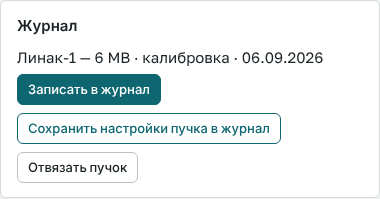
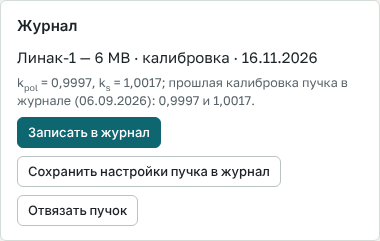
Инструкция пользователя: снимки и текст по версии 0.64.1
Все снимки пересняты на вымышленном журнале (новые: kV-сертификат камеры,
прошлый TPR серым, карта проверок в пластинах). Текст: ярлыки «Оборудования»,
сотрудники отделения, «Применение» и два свидетельства камеры, «Новый
сертификат…» и история, перенос записи на другую дату, переключатель протокола
только на страницах расчёта, «Литература», листы kV-рентгена 0.57–0.62.

Changed region(s): [[0.0, 0.2111, 0.9842, 0.995], [0.0289, 0.0603, 0.2026, 0.1809], [0.7237, 0.5729, 0.7526, 0.603]]

diff --git a/docs/instrukciya.md b/docs/instrukciya.md
@@ -2,7 +2,7 @@
 
 Пошаговое описание ежедневной работы с калькулятором «Клиническая дозиметрия»: как один раз завести оборудование отделения, как измерить и записать калибровку или проверку выхода пучка и как смотреть тренды и контрольные карты. Формулы, коэффициенты и ссылки на разделы протоколов — в технических описаниях: [photons.md](photons.md), [electrons.md](electrons.md), [cobalt.md](cobalt.md), [kv.md](kv.md), [journal.md](journal.md).
 
-Снимки экрана сделаны в версии 0.49.2 (снимки «Начала», сеанса, вкладок ⁶⁰Co и kV — в 0.63.0, частых вопросов — в 0.50.0) на **вымышленных данных**: «Условный онкодиспансер», ускоритель «Линак-1» с пучками 6 МВ, 10 МВ и 9 МэВ, камеры PTW 30013 № 000111 и PTW 34001 Roos № 000222, электрометр PTW № 000333. Числа на снимках не относятся ни к одному реальному аппарату. Формат даты в полях ввода зависит от настроек браузера (на снимках — ММ/ДД/ГГГГ).
+Снимки экрана сделаны в версии 0.64.1 на **вымышленных данных**: «Условный онкодиспансер», сотрудники Иванова А. А. и Петров П. П., ускоритель «Линак-1» с пучками 6 МВ, 10 МВ и 9 МэВ, рентгенотерапевтический аппарат «РТА-1», камеры PTW 30013 № 000111 и PTW 34001 Roos № 000222, электрометр PTW UNIDOS webline № 000333. В журнале — калибровка 06.09.2026, проверки выхода каждые три дня до 02.11.2026 (09.10.2026 все пучки вместе выше на 2 %) и проверки 6 МВ в пластинах 09–13.11.2026. Числа на снимках не относятся ни к одному реальному аппарату. Формат даты в полях ввода зависит от настроек браузера (на снимках — ММ/ДД/ГГГГ).
 
 Содержание:
 
@@ -24,23 +24,27 @@
 2. **Дозиметрия** — при каждом измерении: выбрать пучок журнала, ввести условия и показания, проверить результат и нажать **«Записать в журнал»**.
 3. **Журнал и тренды** — когда нужно посмотреть историю: отклонение выхода по датам, контрольные карты, протоколы записей, выгрузка в Excel.
 
-В шапке страницы — разделы, переключатель языка (RU/EN) и протокола. **Основной протокол — TRS-398 Rev.1**; TG-51 включается только для справочного сравнения и помечен «справочно».
+В шапке страницы — разделы, переключатель светлой и тёмной темы и языка (RU/EN). **Основной протокол — TRS-398 Rev.1.** На страницах, где выбор протокола меняет расчёт (вкладки «⁶⁰Co», «МВ фотоны» и «Электроны» в воде, «Камера и пучок», «Неопределённость»), в шапке появляется ещё переключатель протокола: TG-51 включается только для справочного сравнения и помечен «справочно». На остальных страницах (Начало, Оборудование, kV-рентген, Журнал и тренды) переключателя нет: там всё по TRS-398 Rev.1.
 
-На странице **«Начало»** видно состояние журнала: сколько аппаратов и пучков, когда была последняя запись, есть ли несохранённые изменения.
+На странице **«Начало»** видно состояние журнала: имя файла, сколько аппаратов и пучков, когда была последняя запись, есть ли несохранённые изменения.
 
 ![Страница «Начало» с открытым журналом](img/instrukciya/02-nachalo-s-zhurnalom.png)
+
+Внизу каждой страницы — ссылка на страницу **«Литература»**: все источники калькулятора (протоколы, аддендумы, статьи) карточками с обложками, сгруппированные по темам.
 
 ---
 
 ## 2. Оборудование
 
-Раздел **«Оборудование»** заполняют один раз и затем правят только при изменениях: новая камера, новое свидетельство о калибровке, новый пучок. Отсюда данные подставляются во вкладки дозиметрии, поэтому заводской номер, N<sub>D,w</sub> и k<sub>elec</sub> не нужно вводить при каждом измерении.
+Раздел **«Оборудование»** заполняют один раз и затем правят только при изменениях: новая камера, новое свидетельство о калибровке, новый пучок, новый сотрудник. Отсюда данные подставляются во вкладки дозиметрии, поэтому заводской номер, N<sub>D,w</sub> и k<sub>elec</sub> не нужно вводить при каждом измерении.
+
+В разделах 2–4 (аппараты, электрометры, камеры) **каждая запись — свой лист**: над карточкой ряд ярлыков с названиями, щелчок по ярлыку открывает карточку. Кнопки «+ Добавить…» — всегда над ярлыками; новая запись сразу открывается своим листом. Точка на ярлыке показывает, заполнена ли карточка: зелёная — всё нужное для расчёта есть; чего не хватает — сказано в заголовке карточки и в «Замечаниях» справа.
 
 Внизу каждой карточки (аппарат, режим рентгенотерапевтического аппарата, электрометр, камера) — поле **«Примечания»** во всю ширину карточки: текст переносится по строкам, поле растёт по мере ввода, Enter начинает новую строку. Длинный комментарий виден целиком.
 
 ### 2.1. Файл журнала
 
-Справа на странице — сводка оборудования, замечания и панель **«Файл журнала»**.
+Справа на странице — сводка оборудования, замечания (в том числе о сроках калибровки) и панель **«Файл журнала»**.
 
 ![Сводка, замечания и панель «Файл журнала»](img/instrukciya/14-oborudovanie-svodka.png)
 
@@ -53,13 +57,13 @@
 
 ### 2.2. Учреждение
 
-Раздел 1 — учреждение и подразделение. Они попадают в протоколы записей и во вкладки дозиметрии при выборе пучка журнала.
+Раздел 1 — учреждение, подразделение и **сотрудники** отделения. Учреждение и подразделение попадают в протоколы записей и во вкладки дозиметрии при выборе пучка журнала. Сотрудники («+ Добавить сотрудника», лишнего удаляют крестиком) появляются в выпадающем списке поля «Сотрудник, выполняющий измерения» всех вкладок дозиметрии и листа «В пластинах» с пометкой «отделение». Само поле ничего не подставляет: сотрудника выбирают из списка или вписывают другого.
 
 ![Раздел 1 «Учреждение»](img/instrukciya/10-oborudovanie-uchrezhdenie.png)
 
 ### 2.3. Аппараты и пучки
 
-Раздел 2. Аппарат добавляют кнопкой нужного типа: **«Добавить ускоритель»**, **«Добавить аппарат ⁶⁰Co»** или **«Добавить рентгенотерапевтический аппарат»**.
+Раздел 2. Аппарат добавляют кнопкой нужного типа: **«+ Добавить ускоритель»**, **«+ Добавить аппарат ⁶⁰Co»** или **«+ Добавить рентгенотерапевтический аппарат»**. Тип задаётся только кнопкой и потом не меняется (он виден на ярлыке и в заголовке карточки).
 
 У ускорителя:
 
@@ -69,11 +73,18 @@
 4. Отметка **«используется в измерениях»**: снятая убирает пучок из списков вкладок, но его история в журнале остаётся.
 5. **«Настройки пучка — во вкладке…»** открывает пучок на вкладке дозиметрии: там задают V₁, V₂, полярность, МЕ, d<sub>max</sub> и PDD(10) (или TMR), номинальный выход и допуск. Правки возвращаются кнопкой «Сохранить в журнал» над рабочим листом.
 
-![Карточка ускорителя с пучками фотонов и электронов](img/instrukciya/11-oborudovanie-apparat.png)
+![Раздел 2: ярлыки аппаратов и карточка ускорителя с пучками фотонов и электронов](img/instrukciya/11-oborudovanie-apparat.png)
 
-У **рентгенотерапевтического аппарата** вместо пучков — список аппликаторов (обозначение, форма, размер, РИП) и режимы: напряжение, ток трубки, фильтр, диапазон энергий, СПО (номинальный или измеренный), камера и электрометр режима, аппликаторы режима и референсный аппликатор. Пока чего-то не хватает для расчёта, под режимом перечислены замечания. Режимы удобнее заводить из вкладки «kV-рентген» кнопкой «Сохранить аппарат в «Оборудование»» (см. [3.7](#37-kv-рентген)).
+У **рентгенотерапевтического аппарата** вместо пучков:
 
-![Карточка рентгенотерапевтического аппарата: аппликаторы и режим](img/instrukciya/16-oborudovanie-kv-apparat.png)
+- **Аппликаторы** — таблица: обозначение, форма, размер, РИП; эквивалентный диаметр считается сам.
+- **Режимы** — каждый режим тоже свой ярлык внутри карточки аппарата («Режим 1 · 200 кВ / 10 мА / 0,5 мм Cu + 1 мм Al»): напряжение, ток трубки, фильтр, диапазон энергий, СПО (номинальный — из паспорта или приёмки, или измеренный — с датой измерения), аппликаторы режима и стандартный аппликатор. Пока чего-то не хватает для расчёта, под режимом перечислены замечания.
+- **Камеры режимов** — таблица внизу карточки: камера каждого режима, её электрометр (электрометр при калибровке kV-сертификата) и есть ли у камеры kV-сертификат.
+- Набор пластин для измерения СПО, если его вводили на листе «СПО и k<sub>Q</sub>» вкладки «kV-рентген».
+
+«Оборудование» — источник постоянного для вкладки «kV-рентген»: при выборе аппарата во вкладке режимы подставляются с камерой, её kV-сертификатом, электрометром и аппликаторами и там только показываются. Аппарат можно завести и из вкладки кнопкой «Сохранить аппарат в «Оборудование»» (см. [3.7](#37-kv-рентген)).
+
+![Карточка рентгенотерапевтического аппарата: аппликаторы, режимы ярлыками, камеры режимов](img/instrukciya/16-oborudovanie-kv-apparat.png)
 
 ### 2.4. Электрометры
 
@@ -83,16 +94,21 @@
 
 ### 2.5. Камеры
 
-Раздел 4. Одна запись камеры служит всем вкладкам — фотонам, электронам, ⁶⁰Co и kV: это та же физическая камера с тем же свидетельством.
+Раздел 4. Одна запись камеры служит всем пучкам, для которых она отмечена: это та же физическая камера. Но свидетельств у неё может быть два — для МВ и ⁶⁰Co и для kV-рентгена, — и они хранятся отдельно.
 
-1. Производитель и модель из базы. Под моделью показаны радиус и длина полости из базы (TRS-398 Rev.1, табл. 4).
-2. Заводской №, способ калибровки (N<sub>D,w</sub> в ⁶⁰Co или перекрёстная калибровка), N<sub>D,w</sub> с единицами, k<sub>лаб</sub>, T₀ и P₀ из свидетельства.
-3. **Свидетельство о калибровке** — лаборатория, № свидетельства, дата калибровки, срок «действует до», с каким электрометром, при каком напряжении и полярности калибровали. Свидетельство попадает в протокол записи; по нему вкладка дозиметрии предупредит, если выбран другой электрометр с k<sub>elec</sub> = 1 или рабочее напряжение не то, что при калибровке.
-4. kV-сертификат (N<sub>D,w</sub> или N<sub>K</sub> по качествам) вводится во вкладке «kV-рентген» и сохраняется в эту же запись камеры.
+1. Производитель и модель из базы. Под моделью показаны радиус и длина полости из базы (TRS-398 Rev.1, табл. 4). Поля свидетельства появляются после выбора модели.
+2. Заводской № и **«Применение»**: флажки «МВ фотоны и ⁶⁰Co», «электроны», «kV-рентген» (только те, для которых модель годится). Ниже — поля только для отмеченного, и списки камер во вкладках дозиметрии показывают камеру только для отмеченных видов пучков. Флажок нельзя снять, если камерой уже мерили этим видом пучков или она выбрана в режиме рентгенотерапевтического аппарата.
+3. Свидетельства — на двух ярлыках внутри карточки:
+   - **«Ускорители и ⁶⁰Co»** — способ калибровки (N<sub>D,w</sub> в ⁶⁰Co или перекрёстная), N<sub>D,w</sub> с единицами, k<sub>лаб</sub>, T₀ и P₀, лаборатория, № свидетельства, дата калибровки, срок «действует до», с каким электрометром, при каком напряжении и полярности калибровали. Свидетельство попадает в протокол записи; по нему вкладка дозиметрии предупредит, если выбран другой электрометр с k<sub>elec</sub> = 1 или рабочее напряжение не то, что при калибровке.
+   - **«kV-рентген»** — kV-сертификат: свои лаборатория, №, даты, электрометр, N<sub>D,w</sub> или N<sub>K</sub>, таблица качеств (кВ, СПО, металл, k<sub>Q</sub> или N), условия лаборатории, свои T₀ и P₀.
 
-![Карточка камеры PTW 30013 со свидетельством о калибровке](img/instrukciya/13-oborudovanie-kamera.png)
+![Карточка камеры PTW 30013: свидетельство для ускорителей и ⁶⁰Co](img/instrukciya/13-oborudovanie-kamera.png)
 
-В заголовке карточки — срок калибровки или отметка «не заполнено: …». За 30 дней до срока появляется напоминание «срок подходит», после — «срок калибровки прошёл»; эти напоминания видны и в «Дозиметрии», и в «Журнале и трендах».
+![Та же камера, ярлык «kV-рентген»: kV-сертификат](img/instrukciya/15-oborudovanie-kamera-kv.png)
+
+**Камеру перекалибровали.** Нажмите **«Новый сертификат…»** на нужном ярлыке: действующее свидетельство уйдёт в «Историю сертификатов», поля освободятся под новое. Записи журнала не пересчитываются: у каждой записи свои № и коэффициенты свидетельства. Вкладки дозиметрии берут свидетельство, действовавшее **на дату измерения**: если внести измерение прошлой даты, подставится прежнее свидетельство из истории. У записи истории есть кнопки «Сделать действующим» (если новое внесли по ошибке) и «Удалить».
+
+В заголовке карточки — сроки свидетельств (у камеры с двумя свидетельствами — оба: «МВ и ⁶⁰Co: до …», «kV: до …») или отметка «не заполнено: …». За 30 дней до срока появляется напоминание «срок подходит», после — «срок калибровки прошёл»; эти напоминания видны и в «Дозиметрии», и в «Журнале и трендах».
 
 Камеру, электрометр, пучок или аппарат, которые уже есть в записях журнала, удалить нельзя: на них ссылаются протоколы и тренды. Выведенный из работы пучок отключают отметкой «используется в измерениях».
 
@@ -100,13 +116,13 @@
 
 ## 3. Дозиметрия
 
-В разделе **«Дозиметрия»** — подразделы: **⁶⁰Co**, **МВ фотоны**, **Электроны**, **kV-рентген** (брахитерапия — в разработке). У вкладок пучков под подразделами — ярлыки листов (с версии 0.63.0): у «МВ фотонов» и «Электронов» — **«Одна энергия»** (рабочий лист), **«Сеанс: все энергии»** и **«В пластинах»**; у «⁶⁰Co» — **«В воде»** и **«В пластинах»**. Щелчок по подразделу открывает лист, с которым работали последним. Каждая вкладка — рабочий лист с разделами по порядку измерения; слева — оглавление разделов с отметками заполненности, справа — результат, замечания и кнопки данных (пример, сохранение в файл, протокол, PDF). Числа можно вводить с запятой или точкой; обозначения с пунктирным подчёркиванием открывают справку.
+В разделе **«Дозиметрия»** — подразделы: **⁶⁰Co**, **МВ фотоны**, **Электроны**, **kV-рентген** (брахитерапия — в разработке). У вкладок пучков под подразделами — ярлыки листов (с версии 0.63.0): у «МВ фотонов» и «Электронов» — **«Одна энергия»** (рабочий лист), **«Сеанс: все энергии»** и **«В пластинах»**; у «⁶⁰Co» — **«В воде»** и **«В пластинах»**. Щелчок по подразделу открывает лист, с которым работали последним. Каждая вкладка — рабочий лист с разделами по порядку измерения; слева — оглавление разделов с отметками заполненности, справа — результат, блок «Журнал», замечания и кнопки данных (пример, сохранение в файл, протокол, PDF). Числа можно вводить с запятой или точкой; обозначения с пунктирным подчёркиванием открывают справку.
 
 Вкладка без журнала тоже работает: в ней можно посчитать разовое измерение и сохранить его в файл. Ниже — работа с журналом на примере вкладки «МВ фотоны».
 
 ### 3.1. Калибровка пучка МВ фотонов
 
-**Шаг 1. Выбрать пучок журнала.** В разделе 1, в строке **«Журнал отделения»**, выберите аппарат и пучок. Во вкладку подставятся настройки пучка, камера и электрометр (те, которыми мерили в последней записи), учреждение и геометрия калибровки. Изменённые поля подсвечиваются. Укажите дату измерения и сотрудников.
+**Шаг 1. Выбрать пучок журнала.** В разделе 1, в строке **«Журнал отделения»**, выберите аппарат и пучок. Под строкой сказано, есть ли у пучка калибровки в журнале и какая у него геометрия калибровки. Во вкладку подставятся настройки пучка, камера и электрометр (те, которыми мерили в последней записи), учреждение и геометрия калибровки. Изменённые поля подсвечиваются. Укажите дату измерения и сотрудников: сотрудники отделения из «Оборудования» есть в выпадающем списке поля.
 
 ![Раздел 1: пучок журнала «Линак-1 — 6 МВ»](img/instrukciya/20-foton-razdel1-zhurnal.png)
 
@@ -116,11 +132,14 @@
 
 ![Раздел 3: показания при калибровке](img/instrukciya/21-foton-pokazaniya.png)
 
-**Шаг 4. Качество пучка, температура и давление, пересчёт на d<sub>max</sub>.** Качество пучка при калибровке измеряют (для TRS-398 — TPR<sub>20,10</sub> по отношению показаний на 20 и 10 см или по PDD). Под полями 20 и 10 см серым показаны показания и TPR<sub>20,10</sub> прошлой калибровки этого пучка в журнале — справочно, в расчёт они не идут. Если качество в этот день не измеряли, кнопка **«Взять TPR<sub>20,10</sub> этой калибровки»** подставит его способом «Значение уже известно», а в протоколе будет указано, откуда он взят (с версии 0.54.0). T и P — в момент измерения. Глубина d<sub>max</sub>, PDD(10) или TMR(10) и номинальный выход берутся из настроек пучка; при первом измерении нового пучка их вводят один раз и сохраняют кнопкой «Сохранить настройки пучка в журнал».
+**Шаг 4. Качество пучка, температура и давление, пересчёт на d<sub>max</sub>.** Качество пучка при калибровке измеряют (для TRS-398 — TPR<sub>20,10</sub> по отношению показаний на 20 и 10 см или по PDD). Под полями 20 и 10 см серым показаны показания и TPR<sub>20,10</sub> прошлой калибровки этого пучка в журнале — справочно, в расчёт они не идут: по ним видно, не изменился ли пучок. Если качество в этот день не измеряли, кнопка **«Взять TPR<sub>20,10</sub> этой калибровки»** подставит его способом «Значение уже известно», а в протоколе будет указано, откуда он взят. T и P — в момент измерения.
 
-**Шаг 5. Проверить результат.** Справа — поглощённая доза в воде на опорной глубине и на d<sub>max</sub>, отклонение от номинала, проверка референсных условий TRS-398 Rev.1. Ниже — **замечания**: предупреждения (жёлтые) и справки (серые) с номером раздела, куда смотреть. Если выход вне допуска, раздел 9 ведёт через проверку и подстройку ускорителя.
+![Раздел «Качество пучка и k_Q»: прошлая калибровка пучка серым](img/instrukciya/27-foton-kachestvo-proshlaya.png)
+ Глубина d<sub>max</sub>, PDD(10) или TMR(10) и номинальный выход берутся из настроек пучка; при первом измерении нового пучка их вводят один раз и сохраняют кнопкой «Сохранить настройки пучка в журнал».
 
-![Результат калибровки и замечания](img/instrukciya/22-foton-rezultat.png)
+**Шаг 5. Проверить результат.** Справа — поглощённая доза в воде на опорной глубине и на d<sub>max</sub>, отклонение от номинала, проверка референсных условий TRS-398 Rev.1. Под ней — блок «Журнал» (шаг 6): при калибровке там же для сравнения k<sub>pol</sub> и k<sub>s</sub> прошлой калибровки пучка. Ниже — **замечания**: предупреждения (жёлтые) и справки (серые) с номером раздела, куда смотреть. Если выход вне допуска, раздел 9 ведёт через проверку и подстройку ускорителя.
+
+![Результат калибровки, блок «Журнал» и замечания](img/instrukciya/22-foton-rezultat.png)
 
 **Шаг 6. Записать в журнал.** Под результатом — блок **«Журнал»**: пучок, режим (калибровка или проверка выхода) и дата.
 
@@ -155,7 +174,7 @@
 
 ### 3.3. Электроны
 
-Вкладка «Электроны» работает так же: пучок журнала в разделе 1, камера (для электронов по умолчанию плоскопараллельная из журнала), показания трёх серий при калибровке или одной серии при проверке выхода. Качество пучка — R<sub>50</sub> или I<sub>50</sub>; опорная глубина z<sub>ref</sub> считается по нему, пересчёт на z<sub>max</sub> — по PDD(z<sub>ref</sub>). Результат и блок «Журнал» — справа.
+Вкладка «Электроны» работает так же: пучок журнала в разделе 1, камера (для электронов по умолчанию плоскопараллельная, отмеченная в «Оборудовании» для электронов), показания трёх серий при калибровке или одной серии при проверке выхода. Качество пучка — R<sub>50</sub> или I<sub>50</sub>; опорная глубина z<sub>ref</sub> считается по нему, пересчёт на z<sub>max</sub> — по PDD(z<sub>ref</sub>), которую вводят при каждой калибровке вместе с качеством пучка. Результат и блок «Журнал» — справа.
 
 ![Результат калибровки пучка 9 МэВ](img/instrukciya/30-elektrony-rezultat.png)
 
@@ -163,9 +182,9 @@
 
 ### 3.4. ⁶⁰Co
 
-Вкладка «⁶⁰Co»: вместо МЕ — время облучения, k<sub>Q</sub> = 1, качество пучка не измеряют. При калибровке определяют ошибку таймера τ; при проверке выхода τ, k<sub>pol</sub> и k<sub>s</sub> берутся из последней калибровки. Мощность дозы сравнивается с последней калибровкой в журнале, приведённой к дате измерения по распаду ⁶⁰Co. Подробно — [cobalt.md](cobalt.md).
+Вкладка «⁶⁰Co» (листы «В воде» и «В пластинах»): вместо МЕ — время облучения, k<sub>Q</sub> = 1, качество пучка не измеряют. При калибровке определяют ошибку таймера τ; при проверке выхода τ, k<sub>pol</sub> и k<sub>s</sub> берутся из последней калибровки. Мощность дозы сравнивается с последней калибровкой в журнале, приведённой к дате измерения по распаду ⁶⁰Co. Подробно — [cobalt.md](cobalt.md).
 
-![Вкладка «⁶⁰Co» с демонстрационным примером](img/instrukciya/60-co60-vkladka.png)
+![Вкладка «⁶⁰Co» с демонстрационным примером: в шапке — переключатель протокола](img/instrukciya/60-co60-vkladka.png)
 
 ### 3.5. Сеанс: все энергии аппарата подряд
 
@@ -192,25 +211,38 @@
 
    ![Привязка пластин к калибровке в воде](img/instrukciya/50-plastiny-privyazka.png)
 
-3. **Проверка выхода** (раздел 3) — каждый раз: дата, МЕ, T и P в пластинах, показания. Результат — доза в воде на 1 МЕ в точке номинала и отклонение от номинала; справочно — доза в пластинах без перевода в воду. Кнопка **«Записать в журнал»**.
+3. **Проверка выхода** (раздел 3) — каждый раз: дата, сотрудник, МЕ, T и P в пластинах, показания. Результат — доза в воде на 1 МЕ в точке номинала и отклонение от номинала; справочно — доза в пластинах без перевода в воду. Кнопка **«Записать в журнал»**.
 
    ![Проверка выхода в пластинах](img/instrukciya/51-plastiny-proverka.png)
+
+Ниже (раздел 4) — **проверки пучка в пластинах**: таблица записей с сотрудниками и контрольная карта пучка, как в «Журнале и трендах».
+
+![Проверки пучка в пластинах: таблица и контрольная карта](img/instrukciya/52-plastiny-karta.png)
 
 Если выход в пластинах вне допуска, сначала проверьте выход в воде и только потом подстраивайте ускоритель. Если пучок после привязки калибровали в воде заново, страница попросит повторить привязку.
 
 ### 3.7. kV-рентген
 
-Вкладка «kV-рентген» устроена листами, как рабочая книга Excel: **«Аппарат и режимы»**, **«СПО и k<sub>Q</sub>»**, **«Ошибка таймера»**, **«Линейность»**, **«Воспроизводимость»**, **«Поглощённая доза»**, **«Сводка и протокол»**. Зелёная точка на ярлыке листа — лист заполнен.
+Вкладка «kV-рентген» устроена листами, как рабочая книга Excel: **«Аппарат и режимы»**, **«СПО и k<sub>Q</sub>»**, **«Ошибка таймера»**, **«Линейность»**, **«Воспроизводимость»**, **«Поглощённая доза»**, **«Сводка и протокол»**. Зелёная точка на ярлыке листа — лист заполнен. Протокол здесь всегда TRS-398 Rev.1 (справочное сравнение с DIN 6809-4 и другими протоколами — в результате справа).
 
 ![Вкладка «kV-рентген»: листы и результат](img/instrukciya/61-kv-listy.png)
 
-С журналом: в строке «Журнал отделения» на листе «Аппарат и режимы» выберите рентгенотерапевтический аппарат из «Оборудования» — подставятся его режимы, камеры с kV-сертификатами, электрометры и аппликаторы. Если аппарата в журнале ещё нет, заполните вкладку и нажмите **«Сохранить аппарат в «Оборудование»»**. Измерение записывается в журнал по режимам; при проверке выхода k<sub>pol</sub>, k<sub>s</sub>, τ и СПО берутся из последней калибровки режима. Подробно — [kv.md](kv.md).
+С журналом: в строке «Журнал отделения» на листе «Аппарат и режимы» выберите рентгенотерапевтический аппарат из «Оборудования» — подставятся его режимы, камеры с kV-сертификатами (действовавшими на дату измерения), электрометры и аппликаторы; во вкладке они только показываются, а меняются в «Оборудовании». Если аппарата в журнале ещё нет, заполните вкладку и нажмите **«Сохранить аппарат в «Оборудование»»**. Измерение записывается в журнал по режимам; при проверке выхода k<sub>pol</sub>, k<sub>s</sub>, τ и СПО берутся из последней калибровки режима.
+
+Что важно знать о листах:
+
+- **«СПО и k<sub>Q</sub>»** — СПО режимов (номинальный или измеренный по набору пластин) и k<sub>Q</sub> по kV-сертификату камеры. Если СПО в сертификате дан в другом металле, окно **«Пересчёт СПО Al ↔ Cu (DIN 6809-4)…»** пересчитывает его.
+- **«Ошибка таймера»** — способ «по серии облучений с разным заданием» вводится таблицей, как в Excel: задания столбцами (в секундах или минутах), под каждым — повторные показания и среднее; τ считается по средним, на графике — только средние.
+- **«Линейность»** — у заданий своя единица Q (по умолчанию Гр).
+- **«Поглощённая доза»** — таблица аппликаторов режима: столбец «Аппликатор» (имя из «Оборудования») и рядом k<sub>Q</sub>; PDD(2 см) вводится в процентах или в долях (выбор над таблицей). k<sub>pol</sub> и k<sub>s</sub> измеряются сериями на режим (+V₁, −V₁, +V₂); у тонкооконных плоскопараллельных камер при напряжении до 100 кВ они равны 1 и не измеряются (TRS-398 Rev.1, разд. 4.4.3.3). Поправка на поле и РИП k<sub>g</sub> — по табл. 28 TRS-398 Rev.1; подсказка у k<sub>g</sub> показывает, как она получена для строки.
+
+Подробно — [kv.md](kv.md).
 
 ---
 
 ## 4. Журнал и тренды
 
-Раздел **«Журнал и тренды»** показывает историю записей одного аппарата. Выберите аппарат и группу пучков (фотоны, электроны, ⁶⁰Co — только те, что есть у аппарата).
+Раздел **«Журнал и тренды»** показывает историю записей одного аппарата. Выберите аппарат и группу пучков (фотоны, электроны, ⁶⁰Co — только те, что есть у аппарата). Рентгенотерапевтические аппараты — в том же списке (см. конец раздела).
 
 ![Раздел 1: выбор аппарата и вида пучков](img/instrukciya/70-zhurnal-apparat.png)
 
@@ -234,7 +266,7 @@
 
 ### 4.3. Общая часть записей
 
-Отклонение каждого пучка от его обычного уровня делится на **общую для записи часть** (медиана по пучкам) и собственную часть пучка. Если сдвинулись все пучки вместе — причина скорее общая: дозиметр, термометр, барометр, N<sub>D,w</sub> или мониторная камера ускорителя. Если ушёл один пучок — причина в нём. На примере ниже 09.10.2026 все пучки сдвинулись на +2 % вместе — это сигнал на карте общей части, а не на картах отдельных пучков.
+Отклонение каждого пучка от его обычного уровня делится на **общую для записи часть** (медиана по пучкам) и собственную часть пучка. Если сдвинулись все пучки вместе — причина скорее общая: дозиметр, термометр, барометр, N<sub>D,w</sub> или мониторная камера ускорителя. Если ушёл один пучок — причина в нём. На примере ниже 09.10.2026 все пучки сдвинулись на +2 % вместе — на карте общей части это сигнал, а собственные части пучков в тот день в пределах обычного разброса.
 
 ![Общая часть записей](img/instrukciya/73-zhurnal-obshchaya-chast.png)
 
@@ -246,11 +278,12 @@
 
 ### 4.5. Записи журнала и протокол
 
-Список записей аппарата (новые сверху): дата, режим, число пучков, значение и отклонение каждого пучка. Кнопки:
+Список записей аппарата (новые сверху): дата, режим, число пучков, сотрудники, значение и отклонение каждого пучка. Кнопки:
 
 - **«Открыть во вкладке»** — пучок записи открывается на своей вкладке дозиметрии по записанной форме, со всеми поправками и замечаниями; изменения там в журнал не попадают, кнопка над рабочим листом возвращает прежние данные вкладки;
 - **«Протокол»** — протокол записи (аппарат за день);
 - **«Новый отсчёт карты»** — начать контрольную карту заново с этой записи;
+- **«Перенести на другую дату»** — если запись внесли не с той датой: под кнопками появляется поле «Новая дата записи» и кнопка «Перенести». Переносится вся запись (все пучки аппарата за этот день), доза не меняется; у ⁶⁰Co ожидаемая мощность пересчитывается по распаду. Перенос не выполняется на дату в будущем, на дату, где у аппарата уже есть запись в том же режиме, и если проверка выхода оказалась бы раньше своей калибровки (или калибровка — позже опирающихся на неё проверок и привязки пластин). Записи рентгенотерапевтических аппаратов не переносятся;
 - **«Удалить»** — срабатывает по повторному нажатию;
 - **«Выгрузить журнал в CSV»** (под списком) — все записи всех аппаратов для Excel: по строке на пучок.
 
@@ -263,7 +296,7 @@
 ### 4.6. Контроль дозиметра и проверки в пластинах
 
 - **Контроль дозиметра** (раздел 7) — карта отношения доз рабочей и второй камеры, если при измерениях делали проверку дозиметра второй камерой (раздел в конце вкладок дозиметрии). Без таких проверок раздел показывает одну строку-пояснение.
-- **Проверки в пластинах** (раздел 8) — таблица проверок выхода в пластинах со ссылкой на лист «В пластинах» вкладки пучка, где у каждого пучка своя контрольная карта.
+- **Проверки в пластинах** (раздел 8) — таблица проверок выхода в пластинах (отношение к привязке, отклонение от номинала, доза в пластинах без перевода, к какой калибровке привязано) со ссылкой на лист «В пластинах» вкладки пучка, где у каждого пучка своя контрольная карта.
 
 ![Проверки в пластинах в «Журнале и трендах»](img/instrukciya/77-zhurnal-plastiny.png)
 
@@ -289,24 +322,24 @@
 
 **Проверка выхода не считается: нет k<sub>pol</sub> и k<sub>s</sub>.** Для проверки выхода нужны k<sub>pol</sub> и k<sub>s</sub> из калибровки. Без них — ошибка, и измерение не записывается. Запишите калибровку пучка в журнал или введите k<sub>pol</sub>, k<sub>s</sub> и дату прежней калибровки вручную в разделе 3.
 
-**Как внести старые протоколы, чтобы построился тренд?** Дата записи в журнале — это поле **«Дата измерения»** в разделе 1 вкладки (на вкладке kV — на листе «Аппарат и режимы»). По умолчанию там стоит сегодняшняя дата, её можно заменить на дату протокола (дату в будущем журнал не принимает).
-
-![Дата измерения в разделе 1: сюда вводится дата протокола](img/instrukciya/80-staryj-protokol-data.png)
+**Как внести старые протоколы, чтобы построился тренд?** Дата записи в журнале — это поле **«Дата измерения»** в разделе 1 вкладки (см. снимок в [3.1](#31-калибровка-пучка-мв-фотонов); на вкладке kV — на листе «Аппарат и режимы»). По умолчанию там стоит сегодняшняя дата, её можно заменить на дату протокола (дату в будущем журнал не принимает).
 
 1. Выберите аппарат и пучок журнала, поставьте дату первого протокола и только потом введите показания, условия и МЕ. Нажмите «Записать в журнал».
 2. Смените дату на дату следующего протокола и введите его показания. Если показания прежнего протокола остались во вкладке, при смене даты они очищаются, и в строке состояния об этом сказано: старые данные не попадут в новую дату.
-3. Вносите протоколы от старых к новым: для проверки выхода k<sub>pol</sub>, k<sub>s</sub> и качество пучка берутся из последней калибровки до её даты, поэтому калибровку вносят раньше опирающихся на неё проверок.
+3. Вносите протоколы от старых к новым: для проверки выхода k<sub>pol</sub>, k<sub>s</sub> и качество пучка берутся из последней калибровки до её даты, поэтому калибровку вносят раньше опирающихся на неё проверок. Если камеру с тех пор перекалибровали и новое свидетельство внесено через «Новый сертификат…», для старой даты подставится свидетельство из истории.
 
 Измерение с другой датой — новая запись, прежние не меняются. Тот же пучок за ту же дату в том же режиме (калибровка или проверка выхода) и по тому же протоколу заменяет прежнюю запись: тогда в блоке «Журнал» об этом сказано и кнопка называется «Заменить запись в журнале».
 
 ![Блок «Журнал»: этот пучок за эту дату уже записан — запись будет заменена](img/instrukciya/81-staryj-protokol-zamena.png)
 
-Записи разных дат ложатся на график «Выход по датам» в «Журнале и трендах» (снимок — четыре калибровки 2025 года, внесённые задним числом; версия 0.50.0).
+Записи разных дат ложатся на график «Выход по датам» в «Журнале и трендах» (см. [4.1](#41-выход-по-датам)).
 
-![Выход по датам: четыре протокола, внесённые с их датами](img/instrukciya/82-staryj-protokol-trend.png)
+**Запись внесли не с той датой.** «Журнал и тренды» → «Записи журнала» → **«Перенести на другую дату»** у этой записи: введите верную дату и нажмите «Перенести» (см. [4.5](#45-записи-журнала-и-протокол)).
 
 **Как посмотреть старое измерение?** «Журнал и тренды» → «Записи журнала» → «Открыть во вкладке» у нужного пучка. Измерение откроется по записанной форме и покажет ту же дозу, даже если камеру потом перекалибровали.
 
-**Как исправить ошибочную запись?** Откройте её во вкладке, проверьте ввод, исправьте и запишите заново на ту же дату: повторная запись того же пучка за ту же дату заменяет прежнюю (кнопка «Заменить запись в журнале») или удалите ошибочную запись в списке записей.
+**Как исправить ошибочную запись?** Откройте её во вкладке, проверьте ввод, исправьте и запишите заново на ту же дату: повторная запись того же пучка за ту же дату заменяет прежнюю (кнопка «Заменить запись в журнале») или удалите ошибочную запись в списке записей. Если неверна только дата — перенесите запись (см. выше).
+
+**Камеру перекалибровали — что будет со старыми записями?** Ничего: каждая запись хранит свидетельство и коэффициенты, по которым посчитана. Новое свидетельство вносят в «Оборудовании» кнопкой «Новый сертификат…» (см. [2.5](#25-камеры)); на контрольной карте с новым N<sub>D,w</sub> начнётся новый отсчёт.
 
 **Калькулятор заменяет протокол отделения?** Нет. Результат нужно проверить по процедуре отделения; ответственность за клиническую калибровку несёт медицинский физик.

diff --git a/README.md b/README.md
@@ -218,7 +218,7 @@
 
 ## Как пользоваться
 
-**Инструкция пользователя со снимками экрана** — [docs/instrukciya.md](docs/instrukciya.md): оборудование отделения, измерение и запись в журнал, сеанс и проверка в пластинах, тренды и контрольные карты, частые вопросы. Снимки обновляются при изменениях интерфейса (сейчас — по версии 0.63.0).
+**Инструкция пользователя со снимками экрана** — [docs/instrukciya.md](docs/instrukciya.md): оборудование отделения, измерение и запись в журнал, сеанс и проверка в пластинах, тренды и контрольные карты, частые вопросы. Снимки обновляются при изменениях интерфейса (сейчас — по версии 0.64.1).
 
 - **Онлайн:** https://mesava.github.io/Reference-dosimetry/ (GitHub Pages; страница обновляется автоматически после изменений в ветке `main` — только если прошли все тесты и сквозные проверки в браузере). Если вкладка браузера открыта давно, после выхода новой версии обновите страницу (Ctrl+F5): иначе браузер может показывать прежнюю. Файлы, сохранённые до отказа от режима «Оба», открываются по TRS-398.
 - **Как приложение:** в Chrome и Edge на странице «Начало» есть кнопка «Установить как приложение» (или значок установки в адресной строке): калькулятор открывается в своём окне со значка на рабочем столе и работает без интернета (сервис-воркер хранит копию страницы и обновляет её при каждом открытии с интернетом). Данные, черновики и связь с файлом журнала — те же, что у сайта в браузере.
